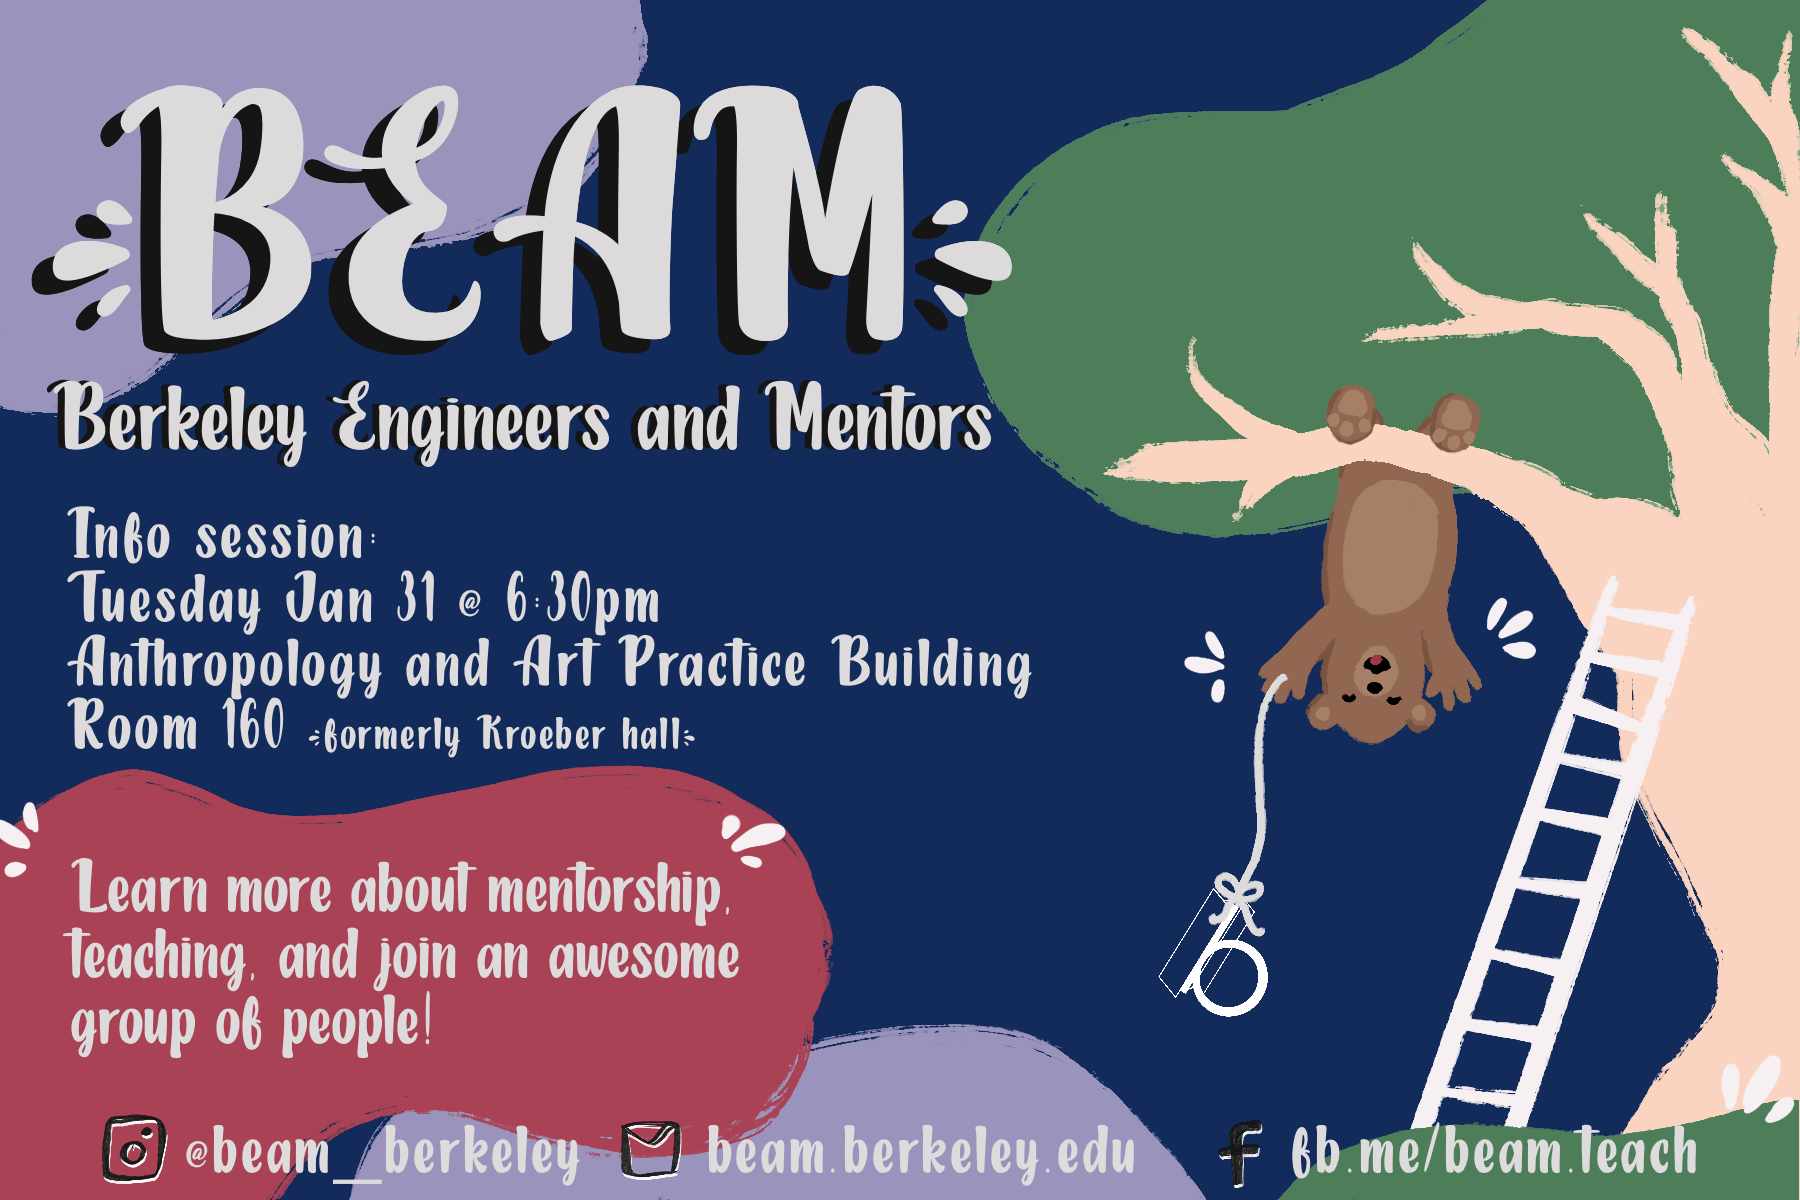
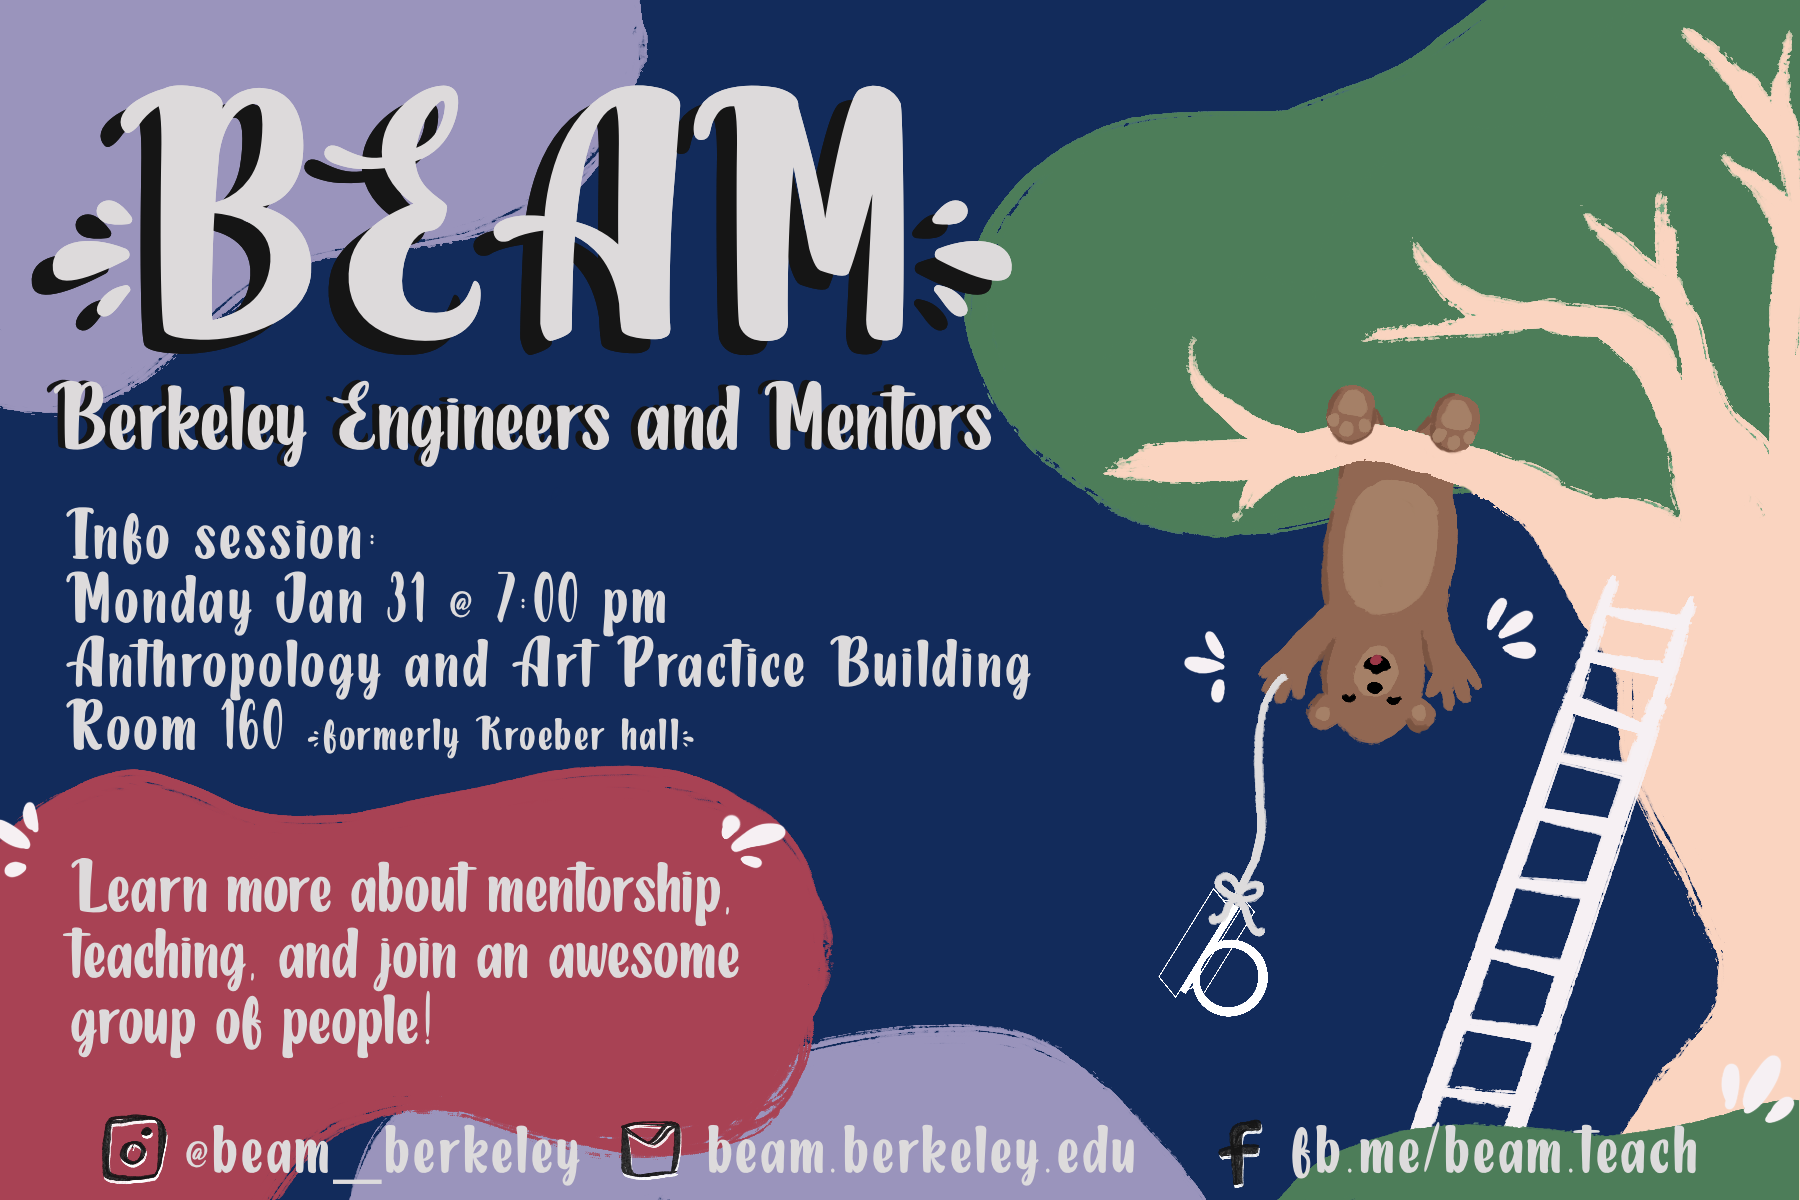
wrong date on infosession flyer but now its fixed

Changed region(s): [[0.0311, 0.4317, 0.3733, 0.6167], [0.4667, 0.5242, 0.56, 0.5858], [0.3733, 0.5242, 0.4356, 0.5858]]

diff --git a/index.html b/index.html
@@ -25,7 +25,7 @@ description: Berkeley Engineers and Mentors
 	</div>
 
 </div>
-	
+
 	<div class="content" style="flex-direction: row; padding-right: 8%; padding-left: 10%;">
 	<a name="target"></a>
 	<section>
@@ -79,7 +79,7 @@ description: Berkeley Engineers and Mentors
 				<!-- <p class="body">Interested in being part of the BEAM team? <a href="join/#FAQ">Any questions?</a> Our Spring 2021 Application will be published after our <a target=_blank href="https://www.facebook.com/events/161068278857651">infosession</a>;
 				in the meantime, be sure to check out our <a href="join">join page</a> or <a href="https://facebook.com/beam.teach">Facebook</a> for more information!</p> -->
 
-				<p class="body">Interested in being part of the BEAM team? <a href="join/#FAQ">Any questions?</a> Our Spring 2021 Application can be found <a target=_blank href="https://forms.gle/G3fPVjXzT7iGcjt29">here</a>, 
+				<p class="body">Interested in being part of the BEAM team? <a href="join/#FAQ">Any questions?</a> Our Spring 2022 Application can be found <a target=_blank href="https://docs.google.com/forms/d/e/1FAIpQLScBKVYOXG_rKVufm-odKAiT2UBjv6n4GyVvKg3tjhyHiUeJFg/viewform">here</a>, 
 					and be sure to check out our <a href="join">join page</a> or <a target=_blank href="https://facebook.com/beam.teach">Facebook</a> for more information!</p>
 
 				<button onclick="window.location.href = 'join';" style="margin-top: 3%; padding: 2%; width: 35%;"

diff --git a/join.html b/join.html
@@ -42,7 +42,7 @@ description:
     				-->
 
     					<strong>BEAM Infosession</strong> <br>
-              Tuesday January 31st 6:30pm <br>
+              Tuesday January 31st 7:00pm <br>
               Anthropology and Art Practice Building<br>
               Room 160<br>
 
@@ -52,7 +52,7 @@ description:
             </p>
 
             <p> More details are available on our <a target=_blank
-              href="https://www.facebook.com/beam.teach/events/">Facebook</a> page.
+              href="https://www.facebook.com/beam.teach/">Facebook</a> page.
               Follow us or add your email in the form below to stay updated!</p>
 
     <form action="http://formspree.io/beam.teach@gmail.com" method="post" class="contact-form"
